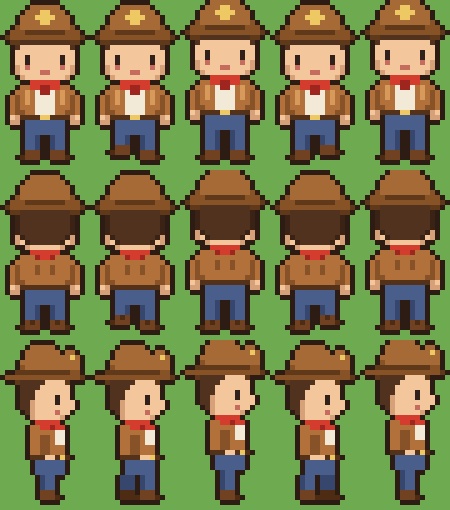
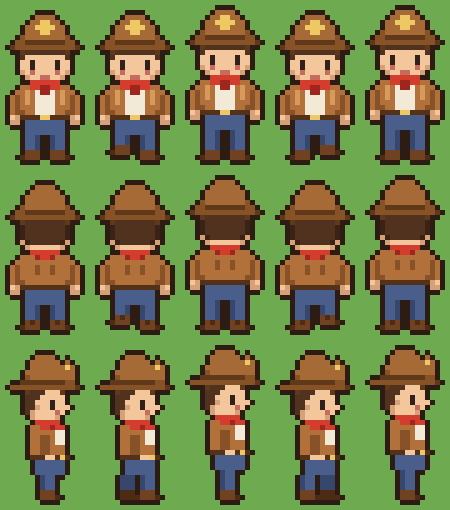
feat(monogame): vaqueiro com cabeça e chapéu menores (rosto 10 px de largura, corpo igual)
Pedido do jogador: a cabeça podia ser menor.

Design: design/art/graficos_fx.md

Claude-Session: https://claude.ai/code/session_019QA4KfsXCLeXJkXGqj3TGQ

Changed region(s): [[0.0, 0.0, 1.0, 0.1765], [0.0, 0.6471, 1.0, 0.8235], [0.0, 0.3235, 1.0, 0.5]]

diff --git a/monogame/Shared/HeroArt.cs b/monogame/Shared/HeroArt.cs
@@ -28,21 +28,21 @@ namespace Lida
 
         static readonly string[] Front =
         {
-            ".....hhhhhh.....",
+            "................",
+            "................",
+            "......hhhh......",
+            ".....hhyyhh.....",
+            "....hhyyyyhh....",
             "....hhhyyhhh....",
-            "...hhhyyyyhhh...",
-            "...hhhhyyhhhh...",
-            "..HhhhhhhhhhhH..",
-            ".HHHddddddddHHH.",
-            "dHHHHHHHHHHHHHHd",
-            ".ddBBBBBBBBBBdd.",
-            "..BSSSSSSSSSSB..",
-            "..SSSSSSSSSSSS..",
-            "..SSkSSSSSSkSS..",
-            "..SSkSSSSSSkSS..",
-            "..sSmSSSSSSmSs..",
-            "..sSSSSmmSSSSs..",
-            "...sSSSSSSSSs...",
+            "...HhhhhhhhhH...",
+            "..HHddddddddHH..",
+            ".dHHHHHHHHHHHHd.",
+            "...dBBBBBBBBd...",
+            "...BSSSSSSSSB...",
+            "...SSkSSSSkSS...",
+            "...SSkSSSSkSS...",
+            "...sSmSSSSmSs...",
+            "....sSSmmSSs....",
             ".....RRRRRR.....",
             "...JJRRrrRRJJ...",
             "..JJLJWrrWJLJJ..",
@@ -57,20 +57,20 @@ namespace Lida
         };
         static readonly string[] Back =
         {
+            "................",
+            "................",
+            "......hhhh......",
             ".....hhhhhh.....",
             "....hhhhhhhh....",
-            "...hhhhhhhhhh...",
-            "...hhhhhhhhhh...",
-            "..HhhhhhhhhhhH..",
-            ".HHHddddddddHHH.",
-            "dHHHHHHHHHHHHHHd",
-            ".ddBBBBBBBBBBdd.",
-            "..nBBBBBBBBBBn..",
-            "..nBBBBBBBBBBn..",
-            "..nBBBBBBBBBBn..",
-            "..nBBBBBBBBBBn..",
-            "..snBBBBBBBBns..",
-            "..sSnBBBBBBnSs..",
+            "....hhhhhhhh....",
+            "...HhhhhhhhhH...",
+            "..HHddddddddHH..",
+            ".dHHHHHHHHHHHHd.",
+            "...dBBBBBBBBd...",
+            "...nBBBBBBBBn...",
+            "...nBBBBBBBBn...",
+            "...nBBBBBBBBn...",
+            "...snBBBBBBns...",
             "....sSSSSSSs....",
             ".....RRRRRR.....",
             "...JJJrRRrJJJ...",
@@ -86,21 +86,21 @@ namespace Lida
         };
         static readonly string[] Side =
         {
-            ".....hhhhh......",
-            "....hhhhhhh.hh..",
-            "....hhhhhhhhhyh.",
-            "...hhhhhhhhhhhh.",
-            "...Hhhhhhhhhhhh.",
-            "..dddddddddddHH.",
-            "HHHHHHHHHHHHHHHd",
-            "..dBBBBBSSSSd...",
-            "...BBBBSSSSSS...",
-            "...BBBSSSSSSS...",
-            "...BBBSSSSkSS...",
-            "...BBsSSSSkSSS..",
-            "...BBsSSSSSSSS..",
-            "....BsSSSSmSS...",
-            ".....sSSSSSs....",
+            "................",
+            "................",
+            "......hhhh......",
+            ".....hhhhhh.h...",
+            ".....hhhhhhhyh..",
+            "....hhhhhhhhhh..",
+            "....Hhhhhhhhhh..",
+            "...dddddddddHH..",
+            ".HHHHHHHHHHHHHd.",
+            "....dBBBSSSd....",
+            "....BBBSSSSS....",
+            "....BBSSSkSS....",
+            "....BBsSSkSSS...",
+            "....BsSSSSmS....",
+            ".....sSSSSs.....",
             "......RRRRR.....",
             ".....JJRRrRR....",
             ".....JJJJJWW....",
